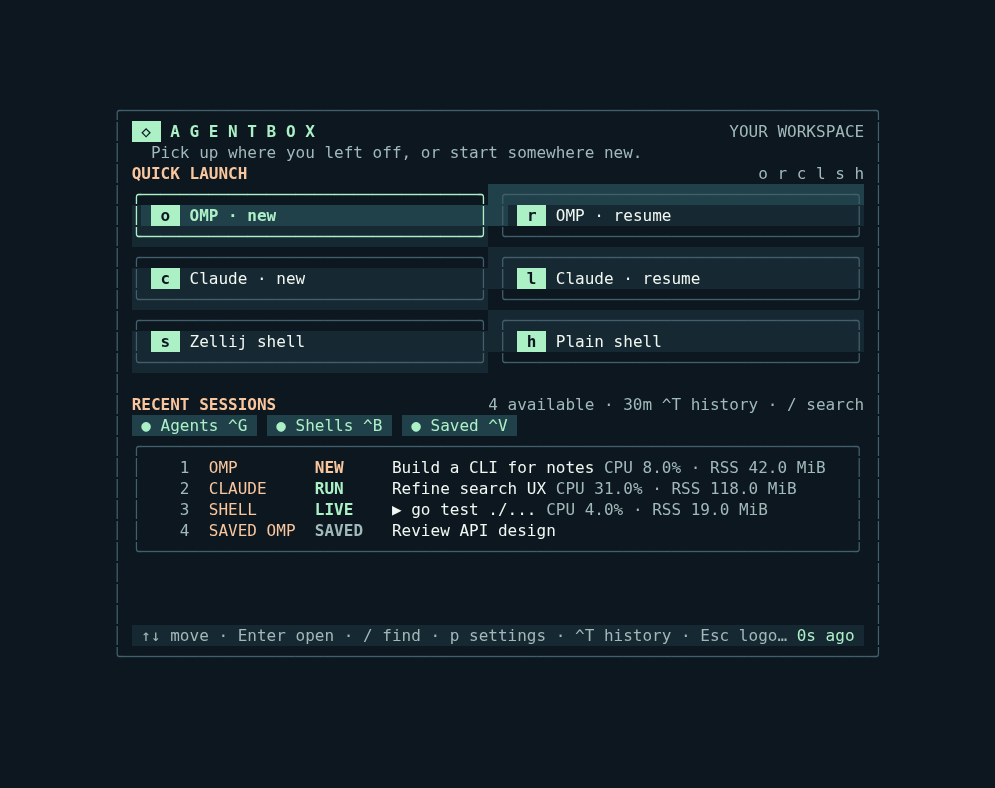
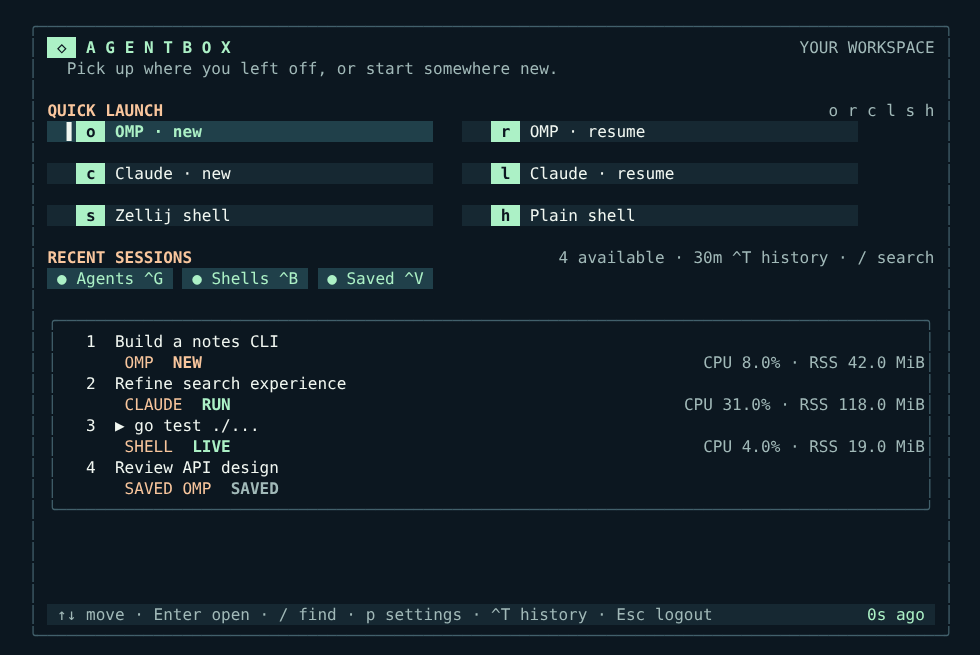
docs: 🖼 showcase Spacious UI

diff --git a/README.md b/README.md
@@ -1,46 +1,37 @@
 # Agentbox Login
 
-A keyboard- and mouse-friendly terminal workspace for hopping between [Zellij](https://zellij.dev/) sessions over SSH. Start or resume [omp](https://github.com/can1357/oh-my-pi) and Claude Code, open a shell, search sessions, and see live CPU/RSS without losing your place when you detach.
+A terminal home screen for SSH + Zellij: start coding agents, jump between sessions, search by topic or command, and watch CPU/RSS. Built with Go and Bubble Tea; **not** a replacement SSH server.
 
-The dashboard is a Go [Bubble Tea](https://github.com/charmbracelet/bubbletea) app, **not** an SSH server. Your existing SSH authentication and shell stay in charge; a failed launcher can fall through to a normal shell.
+### Workspace · start or rejoin
 
-![Agentbox workspace with synthetic sessions](screenshots/home.png)
+![Spacious workspace with launch actions and recent sessions](screenshots/home.png)
 
-<details>
-<summary>Search and filter sessions</summary>
+### Search · sessions and resource history
 
-![Session search with synthetic sessions](screenshots/search.png)
+![Spacious session search with CPU and RSS history charts](screenshots/search.png)
 
-</details>
+### Preferences · filters, density, history span
 
-*Screenshots are rendered from synthetic session data, not a real machine's processes, paths, or history.*
+![Spacious preferences with density selected](screenshots/preferences.png)
 
-## What it does
+*All screenshots show synthetic sessions in Spacious density. No live machine data is pictured.*
 
-- Launch new or resume recent omp/Claude Code sessions; create Zellij shells or drop into a plain shell. Rejoin live sessions and resurrect saved Zellij layouts.
-- Search across session names, topics, pane directories, commands, and tabs. Filter agents, shells, and saved sessions; choose Compact, Tight, or Spacious density.
-- Show best-effort agent states (`RUN`, `READY`, `ASK`, `NEW`) and current/historical CPU and RSS, including aggregate usage and charts in the search view. Status is inferred from pane contents, **not** an authoritative task state.
-- Open immediately from a local snapshot; update session metadata asynchronously. The optional background refresh keeps the Zellij finder warm between dashboard launches.
-- Keep preferences and snapshots under `~/.local/state/agentbox-login/` on the host. Nothing is sent to a service.
+## Get started
 
-## Requirements
-
-Linux (the metrics collector uses `/proc`), Go 1.26 (pinned in `mise.toml`), Zellij on `PATH`, and an interactive terminal. Install omp or Claude Code only if you want their launch actions; `sqlite3` is optional for stored omp session titles. The launcher starts sessions from `~/code`, so create that directory or adjust `cmd.Dir` in `backend.go` for your setup. Zellij's layout-resurrection and pane-listing commands must be available in your installed version.
-
-## Build and try it
+Requires Linux (`/proc` for metrics), Go 1.26, and [Zellij](https://zellij.dev/). [omp](https://github.com/can1357/oh-my-pi) and Claude Code are optional; their launch actions need the corresponding commands on `PATH`. The launcher starts new sessions in `~/code`.
 
 ```sh
 git clone https://github.com/sebafudi/agentbox-login.git
 cd agentbox-login
-mise install                       # or use an existing Go 1.26 installation
+mise install                  # or provide Go 1.26 yourself
 mkdir -p ~/.local/bin ~/code
 go build -p 2 -o ~/.local/bin/agentbox-login .
 ~/.local/bin/agentbox-login
 ```
 
-Use `/` to search, `p` for preferences, or `h` to exit to a plain shell. Esc on the home screen requests logout (exit status 2). For a warm cache outside the UI, run `agentbox-login --refresh` periodically with your user timer or scheduler; if Zellij is unavailable it exits with an error and retains the previous snapshot.
+`/` searches; `p` opens preferences; `o/r` and `c/l` start/resume omp and Claude; `s` creates a Zellij shell; `h` exits to Bash. Arrows + Enter or mouse clicks open sessions. Ctrl-G/B/V toggle agents/shells/saved; Ctrl-T cycles the history window. Esc on the home screen requests logout (exit code 2). Settings persist under `~/.local/state/agentbox-login/`.
 
-To start it for **interactive SSH Bash** sessions, add this to `~/.bashrc` after your normal interactive-shell guard:
+To launch on interactive SSH Bash logins, add this to `~/.bashrc` (with `~/.local/bin` on `PATH`):
 
 ```bash
 if [[ -n $SSH_CONNECTION && -z $ZELLIJ && -z $NO_ZELLIJ && -t 0 && -t 1 && $TERM != dumb ]]; then
@@ -49,9 +40,7 @@ if [[ -n $SSH_CONNECTION && -z $ZELLIJ && -z $NO_ZELLIJ && -t 0 && -t 1 && $TERM
 fi
 ```
 
-Put `~/.local/bin` on `PATH`. This does not change `sshd`; missing/crashed binaries fall back to Bash. To bypass the dashboard for one connection, set `NO_ZELLIJ=1` in the remote shell environment. Don't launch it for noninteractive SSH commands.
-
-Inside Zellij, `agentbox-login --find-agent` opens a search-only picker; selecting a result switches sessions. The `Ctrl-B`, `Ctrl-F` binding shown below is **optional user configuration**, not installed by this repository. In your Zellij `keybinds { normal { … } }` section:
+This leaves `sshd` alone. If the binary fails, Bash remains available; set `NO_ZELLIJ=1` to bypass the workspace. `agentbox-login --refresh` can run periodically to keep the session cache warm; `agentbox-login --find-agent` opens the search-only picker inside Zellij. To bind the picker to `Ctrl-B`, `Ctrl-F`, add this to Zellij's `keybinds { normal { ... } }` block (replace `YOU`):
 
 ```kdl
 bind "Ctrl f" {
@@ -64,27 +53,8 @@ bind "Ctrl f" {
 }
 ```
 
-Replace `/home/YOU` with your home directory. If your Zellij prefix is `Ctrl-B`, press `Ctrl-B`, then `Ctrl-F`.
+Session state and foreground command detection are best-effort; CPU/RSS history is sampled from `/proc`. Snapshots can contain session names, paths and commands: **never publish `~/.local/state/agentbox-login/`**.
 
-## Keys
+`cmd/agentbox-facts` is a separate, host-specific inventory collector, **not required** for the workspace. Its generated Markdown may include private machine/network details; do not commit it. Build it with `go build -p 2 -o ~/.local/bin/agentbox-facts ./cmd/agentbox-facts` only if you want to adapt it for your host.
 
-| View | Controls |
-| --- | --- |
-| Home | `o`/`r` new/recent omp; `c`/`l` new/recent Claude Code; `s` Zellij shell; `h` plain shell; `1`–`9`/`0` recent row; arrows + Enter select; `/` or `f` search; `p` preferences; Esc logout. |
-| Search / picker | Type to filter; Up or Tab from the query focuses inline settings, Left/Right picks a setting, Enter/Space changes it, Down returns to query/results, Enter opens a result, Esc returns/closes. |
-| Anywhere in dashboard | Ctrl-G/B/V toggle agents/shells/saved; Ctrl-T cycles history from 5 minutes to 24 hours. Preferences persist across the dashboard and picker. |
-| Mouse | Click launch cards and filters; click a session to focus, click again to open; scroll over rows. |
-
-Saved sessions appear after live sessions; session states, foreground commands, and `/proc` metrics are best-effort observations. Missing samples are omitted rather than reported as zero. Historical combined maxima come from simultaneous samples, not sums of individual peaks. A snapshot may include local session names, directories, and commands: **do not publish `~/.local/state/agentbox-login/`**.
-
-## Machine inventory companion
-
-`go build -p 2 -o ~/.local/bin/agentbox-facts ./cmd/agentbox-facts` builds a separate, machine-specific inventory collector used on the original agentbox. It queries local systemd, Docker, Zellij, networking, Tailscale, Cloudflare, and projects and writes a Markdown snapshot to `~/.omp/agent/machine-state.md` (override with `AGENTBOX_FACTS_OUT`). It is **not required** for the workspace. Its output can contain private network, host, and project details: never commit or share a generated snapshot. Adapt the collector to your host before using it.
-
-## Development
-
-```sh
-go test -p 2 ./...
-```
-
-Built with Bubble Tea v2, Lip Gloss v2, Bubbles v2, BubbleZone v2, and ntcharts v2. The workspace is tailored to Linux/Zellij and the original host's omp/Claude workflow; it is not a general-purpose SSH gateway.
+Tests: `go test -p 2 ./...`.
